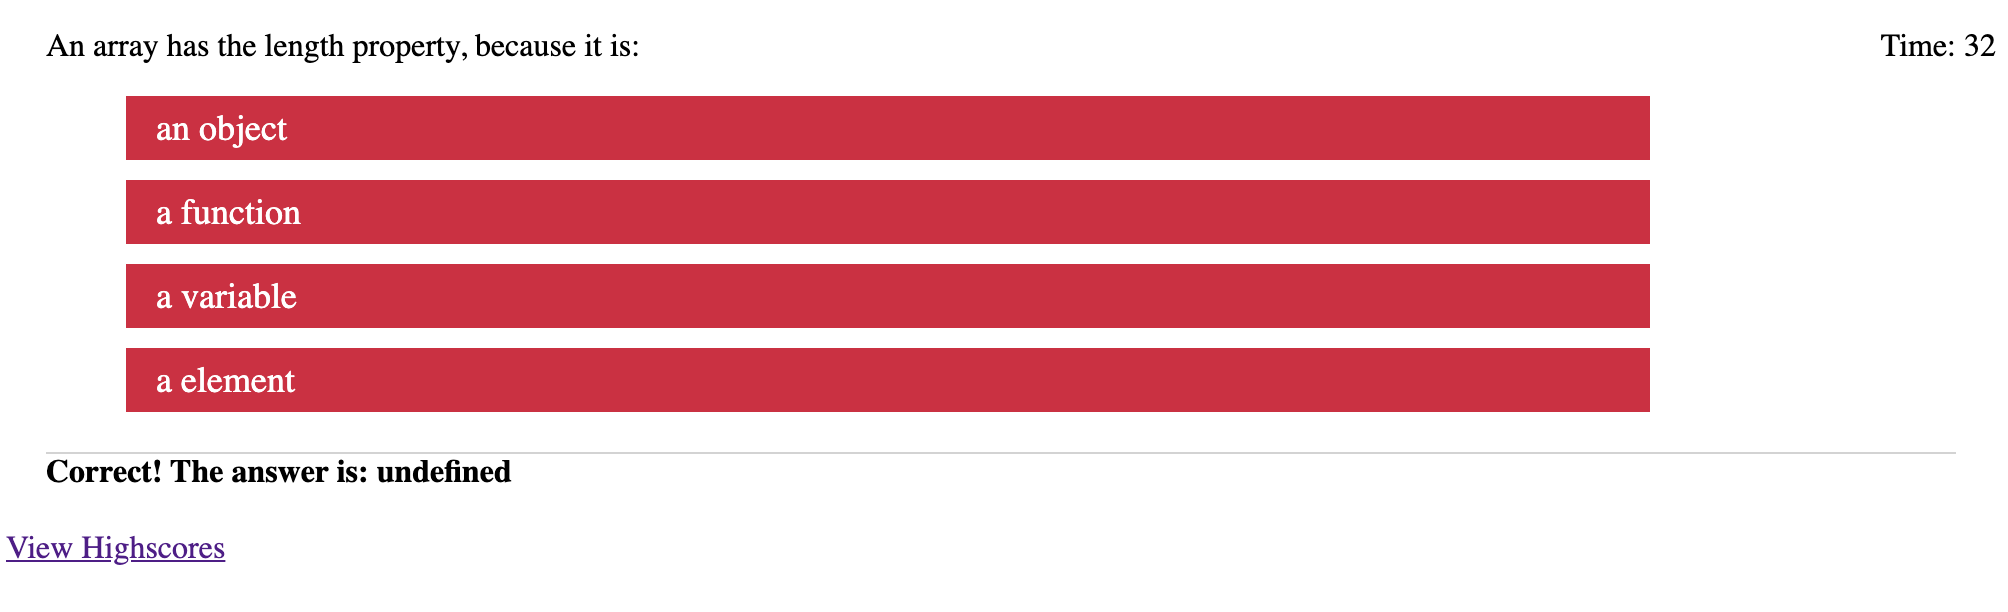
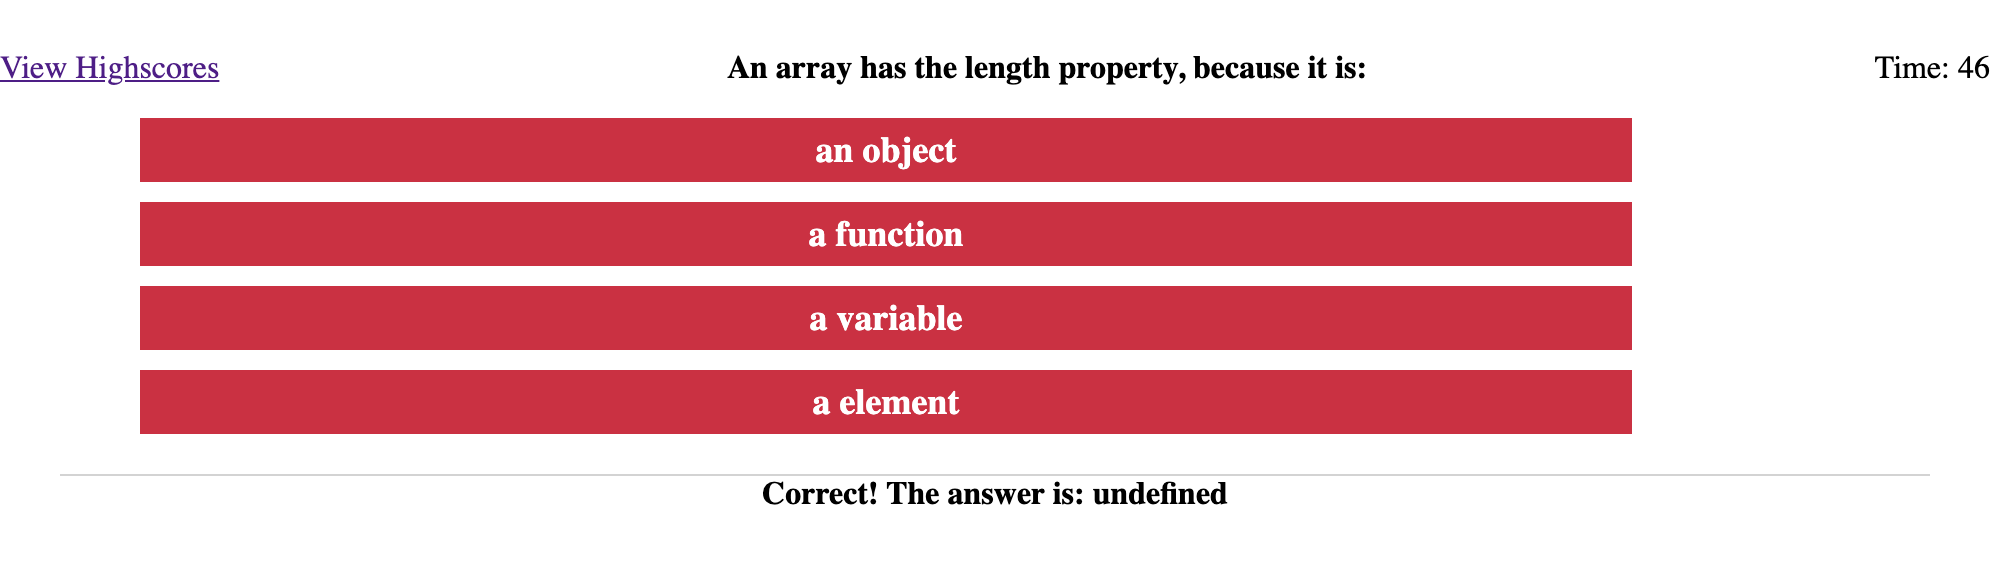
added new pictures to the assets folder.

Changed region(s): [[0.0, 0.0625, 0.9639, 0.875], [0.9328, 0.0625, 1.0, 0.1562], [0.0, 0.875, 0.1244, 0.9375]]

diff --git a/assets/css/style.css b/assets/css/style.css
@@ -13,7 +13,7 @@ header {
 
 #startTime {
     background-color: crimson;
-    margin-left: 33%;
+    margin-left: 10%;
     padding: 15px 32px;
     font-size: 20px;
     color: white;

diff --git a/README.md b/README.md
@@ -27,5 +27,30 @@ As a junior web developer I found this task to be extremely challenging. I learn
 
 ### 4. Images of the web page
 
-![image1] ()
+![image1](assets/images/image1.png)
+![question1](assets/images/question1.png)
+![question2](assets/images/question2.png)
+![question3](assets/images/question3.png)
+![question4](assets/images/question4.png)
+![question5](assets/images/question5.png)
+![question6](assets/images/question6.png)
+![question7](assets/images/question7.png)
+![question8](assets/images/question8%20.png)
+![question9](assets/images/question9.png)
+![question10](assets/images/question10.png)
+![finalscore](assets/images/final%20score.png)
 
+### 5. Link to the Web Site
+
+Please click on the link below to take you to the code quiz.
+https://grave019.github.io/coding-quiz/
+
+### 6. Credits
+
+To complete this Code Quiz I used Eloquent JavaScrip 3rd edition. 
+https://eloquentjavascript.net/
+
+I also looked at codeninjas.com
+https://www.codingninjas.com/blog/2020/11/03/how-to-create-a-quiz-in-javascript/
+
+As well as took advantage of the excellent staff at Central Florida University and Trinity Education Services. Thank you for taking the time to read my Code Quiz Project. If you would like to view more please submit a pull request.
